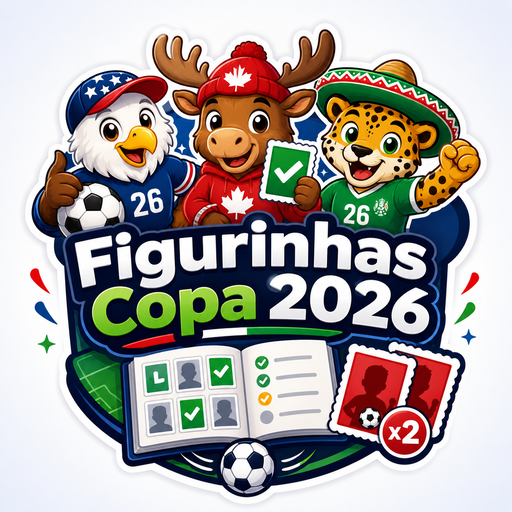
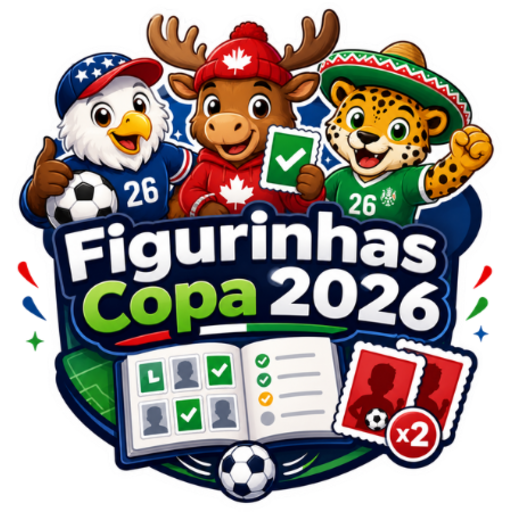
feat: modernize login artwork

diff --git a/index.html b/index.html
@@ -244,28 +244,148 @@
       z-index: 500;
       display: flex; align-items: center; justify-content: center;
       padding: 24px;
-      background: var(--bg);
+      background:
+        radial-gradient(circle at 50% 34%, rgba(29,155,240,0.22), transparent 30%),
+        radial-gradient(circle at 18% 74%, rgba(0,186,124,0.16), transparent 28%),
+        radial-gradient(circle at 83% 18%, rgba(255,212,0,0.14), transparent 24%),
+        #020409;
+      overflow: hidden;
     }
     .auth-screen.hidden { display: none; }
+    .auth-screen::before {
+      content: '';
+      position: absolute; inset: 0;
+      background:
+        linear-gradient(rgba(255,255,255,0.045) 1px, transparent 1px),
+        linear-gradient(90deg, rgba(255,255,255,0.045) 1px, transparent 1px);
+      background-size: 64px 64px;
+      mask-image: radial-gradient(circle at center, #000 0%, transparent 72%);
+      opacity: 0.34;
+    }
+    .auth-depth {
+      position: absolute;
+      border: 1px solid rgba(255,255,255,0.13);
+      background: rgba(255,255,255,0.045);
+      box-shadow: 0 18px 60px rgba(0,0,0,0.36), inset 0 1px rgba(255,255,255,0.16);
+      backdrop-filter: blur(8px);
+      transform: rotate(var(--r, 0deg));
+      pointer-events: none;
+    }
+    .auth-depth.ball {
+      width: clamp(64px, 9vw, 116px);
+      aspect-ratio: 1;
+      border-radius: 50%;
+      left: 10%;
+      top: 16%;
+      --r: -16deg;
+    }
+    .auth-depth.ball::before {
+      content: '';
+      position: absolute; inset: 22%;
+      border-radius: 50%;
+      background: #f5f8ff;
+      clip-path: polygon(50% 0, 100% 38%, 82% 100%, 18% 100%, 0 38%);
+      box-shadow:
+        0 -28px 0 -16px #f5f8ff,
+        27px -8px 0 -16px #f5f8ff,
+        17px 25px 0 -16px #f5f8ff,
+        -17px 25px 0 -16px #f5f8ff,
+        -27px -8px 0 -16px #f5f8ff;
+    }
+    .auth-depth.field {
+      width: clamp(88px, 13vw, 150px);
+      height: clamp(58px, 8vw, 96px);
+      border-radius: 18px;
+      right: 12%;
+      top: 18%;
+      --r: 13deg;
+    }
+    .auth-depth.field::before {
+      content: '';
+      position: absolute; inset: 14px;
+      border: 2px solid rgba(0,186,124,0.75);
+      border-radius: 10px;
+    }
+    .auth-depth.field::after {
+      content: '';
+      position: absolute; top: 50%; left: 50%;
+      width: 28px; height: 28px;
+      border: 2px solid rgba(0,186,124,0.75);
+      border-radius: 50%;
+      transform: translate(-50%, -50%);
+    }
+    .auth-depth.sticker-card {
+      width: clamp(56px, 8vw, 94px);
+      height: clamp(76px, 11vw, 126px);
+      border-radius: 14px;
+      left: 14%;
+      bottom: 12%;
+      --r: 12deg;
+    }
+    .auth-depth.sticker-card::before {
+      content: '';
+      position: absolute; inset: 14px 14px auto;
+      height: 34px;
+      border-radius: 10px;
+      background: linear-gradient(135deg, #f4212e, #ffd400);
+    }
+    .auth-depth.sticker-card::after {
+      content: '';
+      position: absolute; left: 14px; right: 14px; bottom: 18px;
+      height: 8px;
+      border-radius: 999px;
+      background: rgba(255,255,255,0.38);
+      box-shadow: 0 -18px rgba(255,255,255,0.28);
+    }
+    .auth-depth.trophy {
+      width: clamp(58px, 9vw, 102px);
+      height: clamp(58px, 9vw, 102px);
+      border-radius: 24px;
+      right: 15%;
+      bottom: 13%;
+      --r: -10deg;
+    }
+    .auth-depth.trophy::before {
+      content: '';
+      position: absolute; left: 50%; top: 17%;
+      width: 34%; height: 38%;
+      border-radius: 0 0 16px 16px;
+      transform: translateX(-50%);
+      background: #ffd400;
+      box-shadow: 0 34px 0 -10px #ffd400;
+    }
+    .auth-depth.trophy::after {
+      content: '';
+      position: absolute; left: 50%; top: 58%;
+      width: 56%; height: 12px;
+      border-radius: 999px;
+      background: #ffd400;
+      transform: translateX(-50%);
+    }
     .auth-panel {
-      width: min(100%, 390px);
-      border: 1px solid var(--border);
-      border-radius: var(--radius);
-      padding: 24px;
-      background: var(--surface);
+      position: relative;
+      z-index: 1;
+      width: min(100%, 430px);
+      border: 1px solid rgba(255,255,255,0.11);
+      border-radius: 28px;
+      padding: clamp(24px, 5vw, 36px);
+      background: rgba(10,12,16,0.72);
+      box-shadow: 0 26px 90px rgba(0,0,0,0.55), inset 0 1px rgba(255,255,255,0.08);
+      backdrop-filter: blur(18px);
       display: grid;
-      gap: 16px;
+      gap: 18px;
       justify-items: center;
       text-align: center;
     }
     .auth-logo {
-      width: min(100%, 300px);
+      width: min(100%, 340px);
       height: auto;
       display: block;
       object-fit: contain;
+      filter: drop-shadow(0 24px 34px rgba(0,0,0,0.45));
     }
     .auth-panel h1 {
-      font-size: 24px;
+      font-size: 26px;
       line-height: 1.1;
       letter-spacing: 0;
     }
@@ -736,8 +856,12 @@
 </head>
 <body class="auth-locked">
   <div class="auth-screen" id="auth-screen">
+    <div class="auth-depth ball" aria-hidden="true"></div>
+    <div class="auth-depth field" aria-hidden="true"></div>
+    <div class="auth-depth sticker-card" aria-hidden="true"></div>
+    <div class="auth-depth trophy" aria-hidden="true"></div>
     <div class="auth-panel">
-      <img class="auth-logo" src="imagemapp.png" alt="Figurinhas Copa 2026" />
+      <img class="auth-logo" src="assets/logo-login.png" alt="Figurinhas Copa 2026" />
       <div>
         <h1>Figurinhas Copa 2026</h1>
         <p id="auth-message">Entre com sua conta Google para salvar seu álbum.</p>

diff --git a/sw.js b/sw.js
@@ -1,10 +1,11 @@
-const CACHE = 'figurinhas-copa-2026-v11';
+const CACHE = 'figurinhas-copa-2026-v12';
 const ASSETS = [
   './',
   './index.html',
   './manifest.json',
-  './imagemapp.png',
+  './imagemoficial.png',
   './icon.svg',
+  './assets/logo-login.png',
   './assets/icon-192.png',
   './assets/icon-512.png',
   './assets/apple-touch-icon.png'